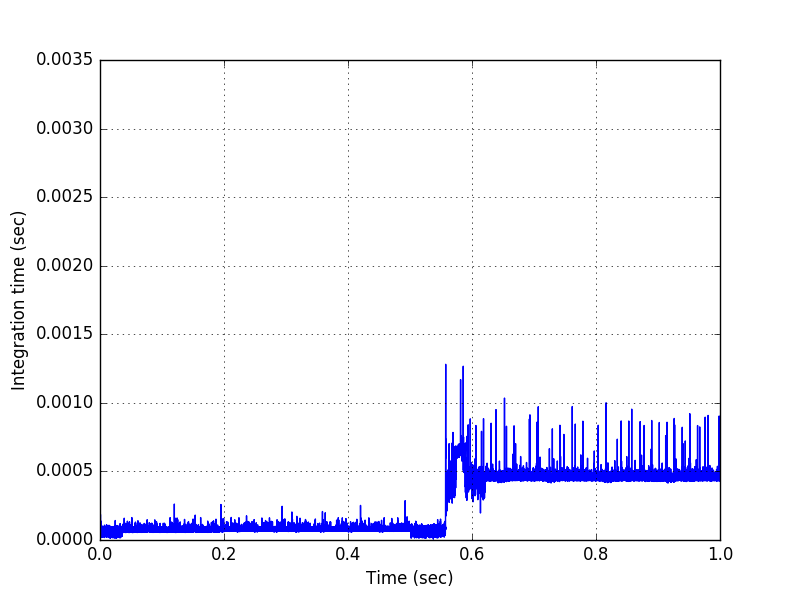
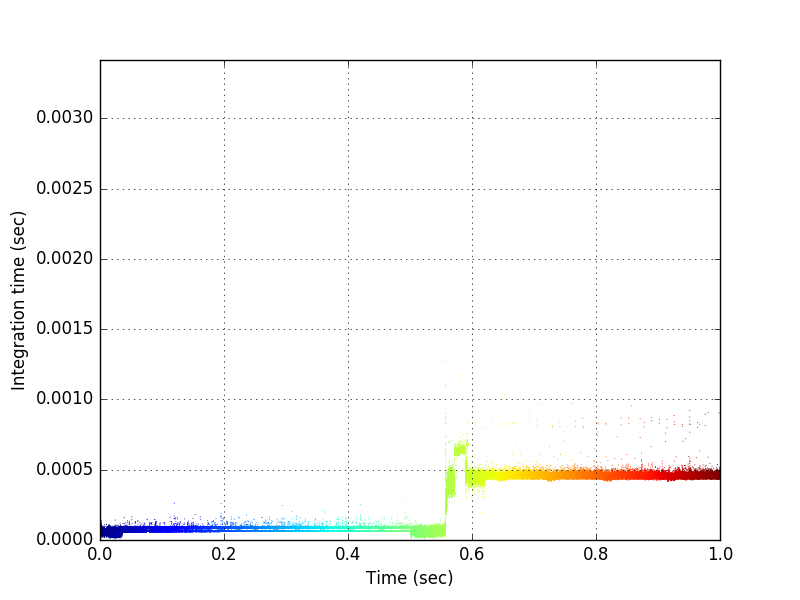
Ran plots that show colors, and configured the data file to count function calls.

diff --git a/A_Posteriori_Stiffness_Detection.py b/A_Posteriori_Stiffness_Detection.py
@@ -16,11 +16,16 @@ import time as timer
 # from scipy.integrate import odeint
 from scipy.integrate import ode
 
+global functioncalls
+
+
 def firstderiv(time, state, press):
     """Force the integrator to use the right arguments."""
     # Need to make sure that N2 is at the end of the state array
     dy = np.zeros_like(state)
     pyjacob.py_dydt(time, press, state, dy)
+    global functioncalls
+    functioncalls += 1
     return dy
 
 
@@ -368,7 +373,7 @@ elif equation == 'Autoignition':
 
 # Create vectors for that time how long it takes to compute stiffness index and
 # the solution itself
-solutiontimes, stiffcomptimes, stiffvals = [], [], []
+solutiontimes, stiffcomptimes, stiffvals, functionwork = [], [], [], []
 
 # Loop through the PaSR file for initial conditions
 if PaSR:
@@ -437,6 +442,8 @@ for particle in particlelist:
         # Integrate the ODE across all steps
         k = 0
         while solver.successful() and solver.t <= tstop:
+            # Initialize global variable for counting RHS function calls
+            functioncalls = 0
             time0 = timer.time()
             solver.integrate(solver.t + dt)
             time1 = timer.time()
@@ -444,6 +451,7 @@ for particle in particlelist:
             # print('Condition at t = {}'.format(solver.t))
             # for i in solver.y:
             #     print(i)
+            functionwork.append(functioncalls)
             solution.append(solver.y)
             if PaSR:
                 if k == 2:
@@ -584,6 +592,7 @@ data_folder = 'Output_Data/'
 # A little bit of data conditioning first
 # Make the metric values a numpy array to make things easier
 stiffvalues = np.array(stiffvalues)
+functionwork = np.array(functionwork)
 # Make all of the stiffness metric values real numbers
 stiffvalues = stiffvalues.real
 
@@ -596,6 +605,7 @@ if savedata == 1:
     metrictimingfilename = equation + '_' + method + '_Timing_' + str(dt) +\
         timer.strftime("%m_%d")
     timescalefilename = equation + '_Indicator_Timescales_' + str(dt)
+    workfilename = equation + '_FunctionWork_' + str(dt)
 
     # Append 'PaSR' to the filename if it is used
     if PaSR:
@@ -603,6 +613,7 @@ if savedata == 1:
         inttimingfilename = 'PaSR_' + inttimingfilename
         metrictimingfilename = 'PaSR_' + metrictimingfilename
         timescalefilename = 'PaSR_' + timescalefilename
+        workfilename = 'PaSR_' + workfilename
         pasrstiffnessfilename = 'PaSR_Stiffnesses_' + method + '_' + str(dt)
         np.save(data_folder + metricfilename, stiffvals)
         if makerainbowplot:
@@ -612,8 +623,14 @@ if savedata == 1:
         np.save(data_folder + metricfilename, stiffvalues)
     np.save(data_folder + inttimingfilename, solutiontimes)
     np.save(data_folder + metrictimingfilename, stiffcomptimes)
+    np.save(data_folder + workfilename, functionwork)
     if findtimescale:
         np.save(data_folder + timescalefilename, timescales)
+
+funsum = 0
+for i in functionwork:
+    funsum += i
+print('Average function calls: {}'.format(funsum/len(functionwork)))
 
 finishtime = datetime.datetime.now()
 print('Finish time: {}'.format(finishtime))

diff --git a/Plotter_A_Posteriori.py b/Plotter_A_Posteriori.py
@@ -33,7 +33,7 @@ def loadpasrdata(num):
 All of the values that need to be adjusted should be in this section.
 """
 # Describe the data files to be loaded
-targetdate = '08_02'
+targetdate = '07_27'
 # targetdate = timer.strftime("%m_%d")
 # Possible options are 'Stiffness_Index', 'Stiffness_Indicator', 'CEMA',
 # 'Stiffness_Ratio'
@@ -324,7 +324,7 @@ else:
         pyl.ylabel(ylab + ' (K)')
     pyl.xlabel('Time (sec)')
     pyl.xlim(plotx)
-    pyl.scatter(tlist, primaryvals, 0.1)
+    pyl.scatter(tlist, primaryvals, c=tlist, cmap='jet', lw=0)
     pyl.grid(b=True, which='both')
     if savefigures == 1:
         pyl.savefig(output_folder +
@@ -341,7 +341,7 @@ else:
     pyl.ylabel('Integration time (sec)')
     pyl.ylim(0, max(solutiontimes))
     pyl.xlim(plotx)
-    pyl.scatter(tlist, solutiontimes, 0.1)
+    pyl.scatter(tlist, solutiontimes, 0.5, c=tlist, cmap='jet', lw=0)
     pyl.grid(b=True, which='both')
     if savefigures == 1:
         pyl.savefig(output_folder +
@@ -357,9 +357,9 @@ else:
     pyl.ylabel(method)
     pyl.xlim(plotx)
     if method == 'Stiffness_Ratio':
-        pyl.scatter(tlist, stiffvalues, 0.1)
+        pyl.scatter(tlist, stiffvalues, 0.5, c=tlist, cmap='jet', lw=0)
     else:
-        pyl.scatter(tlist, stiffvalues, 0.1)
+        pyl.scatter(tlist, stiffvalues, 0.5, c=tlist, cmap='jet', lw=0)
     if method == 'Stiffness_Index' or method == 'Stiffness_Ratio':
         pyl.yscale('log')
     pyl.grid(b=True, which='both')
@@ -381,7 +381,7 @@ else:
         pyl.ylim(0, 0.00025)
     else:
         pyl.ylim(0, max(solutiontimes))
-    pyl.scatter(stiffvalues, solutiontimes, 0.1)
+    pyl.scatter(stiffvalues, solutiontimes, 0.5, c=tlist, cmap='jet', lw=0)
     if method == 'Stiffness_Index':
         pyl.xscale('log')
     pyl.grid(b=True, which='both')
